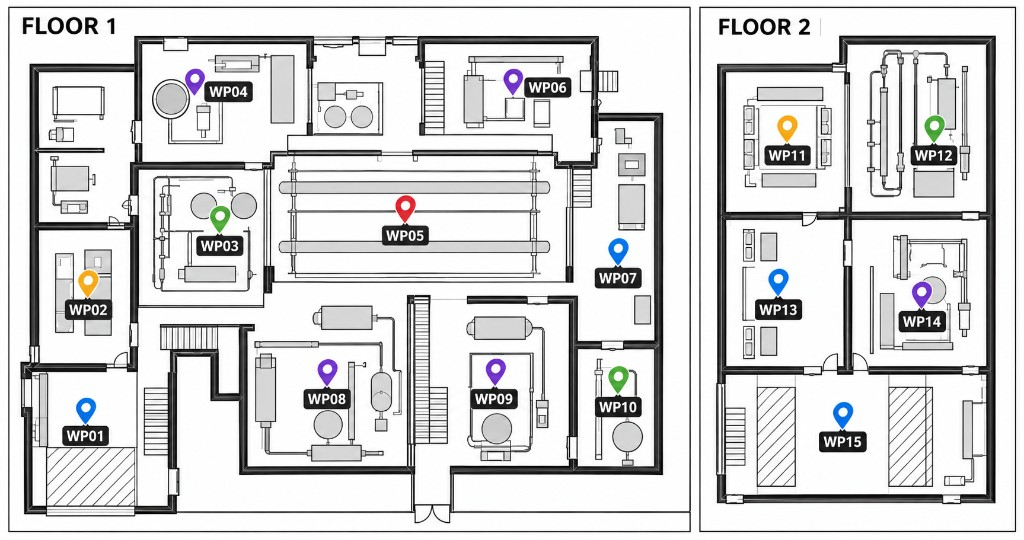
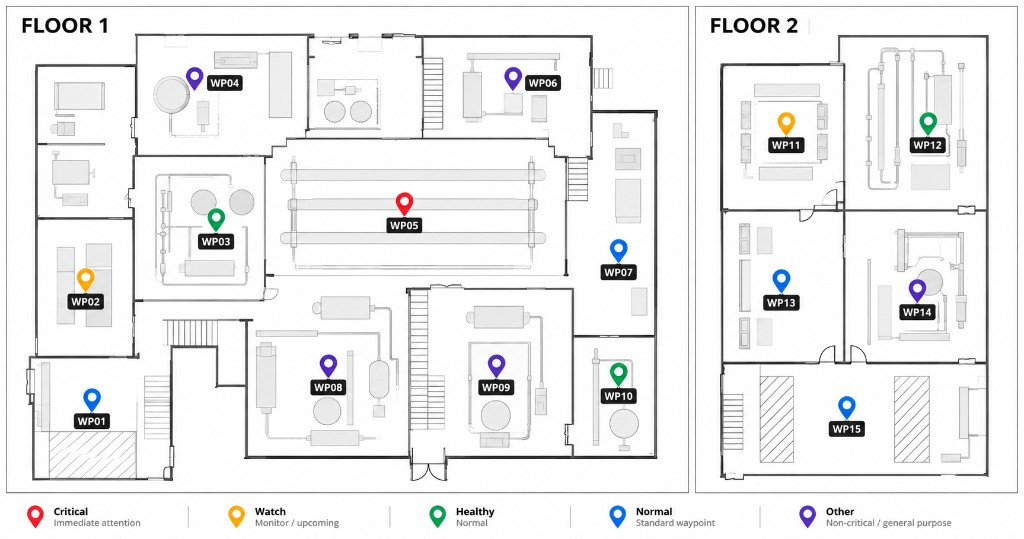
fix: facility image update

diff --git a/SENTINEL-web-frontend/components/facility-map.tsx b/SENTINEL-web-frontend/components/facility-map.tsx
@@ -4,21 +4,21 @@ import Image from "next/image";
 import { useInspectionData } from "../lib/inspection-data";
 
 const points: Record<string, [number, number]> = {
-  WP01: [8.3, 75.7],
-  WP02: [8.6, 52.2],
-  WP03: [21.4, 40.3],
-  WP04: [19.0, 14.8],
-  WP05: [39.5, 38.3],
-  WP06: [50.1, 14.8],
-  WP07: [60.3, 46.3],
-  WP08: [31.9, 68.6],
-  WP09: [48.4, 68.5],
-  WP10: [60.3, 69.9],
-  WP11: [76.9, 23.5],
-  WP12: [91.2, 23.5],
-  WP13: [76.0, 51.9],
-  WP14: [90.0, 54.3],
-  WP15: [82.3, 76.6],
+  WP01: [8.9, 73.9],
+  WP02: [8.3, 51.7],
+  WP03: [21.1, 40.5],
+  WP04: [19.0, 14.3],
+  WP05: [39.5, 37.6],
+  WP06: [50.1, 14.3],
+  WP07: [60.4, 46.2],
+  WP08: [32.0, 67.6],
+  WP09: [48.4, 67.6],
+  WP10: [60.4, 69.2],
+  WP11: [76.7, 22.7],
+  WP12: [90.6, 22.7],
+  WP13: [76.3, 51.8],
+  WP14: [89.6, 53.7],
+  WP15: [82.7, 75.4],
 };
 export function FacilityMap({
   selected,
@@ -34,7 +34,7 @@ export function FacilityMap({
         src="/demo/facility.jpg"
         alt="Illustrative fictional facility floor plan"
         width={1024}
-        height={540}
+        height={539}
         unoptimized
       />
       {data.locations.map((l) => (

diff --git a/SENTINEL-web-frontend/app/globals.css b/SENTINEL-web-frontend/app/globals.css
@@ -564,7 +564,9 @@ small,
 .nav-current {
   color: var(--foreground);
   font-weight: 600;
-  box-shadow: inset 0 0 0 1px var(--brand);
+  border-bottom-left-radius: 0;
+  border-bottom-right-radius: 0;
+  box-shadow: inset 0 -2px 0 var(--brand);
 }
 .metric-value {
   font-size: 38px;
@@ -672,7 +674,7 @@ small,
   width: 100%;
   max-width: 480px;
   margin: auto;
-  aspect-ratio: 1024 / 540;
+  aspect-ratio: 1024 / 539;
 }
 .map-graphic img {
   display: block;
